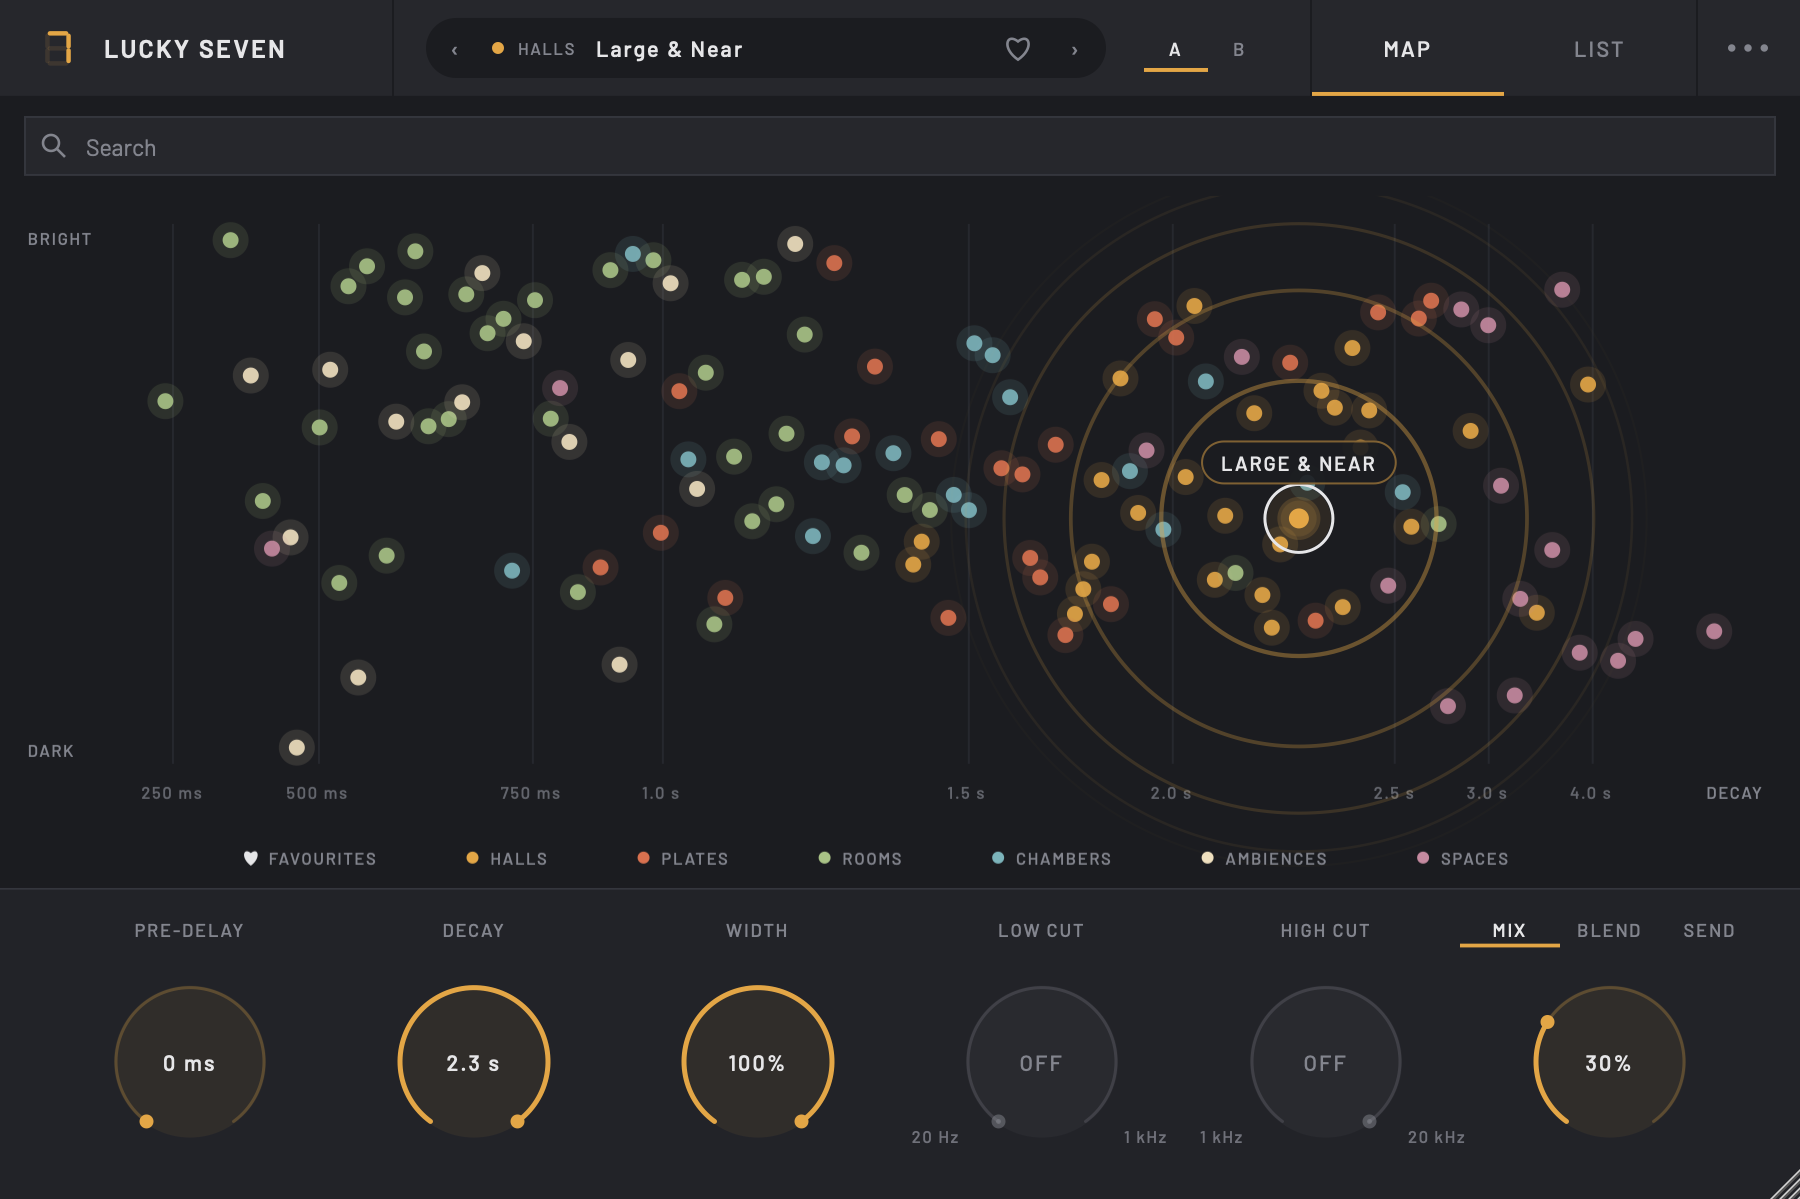
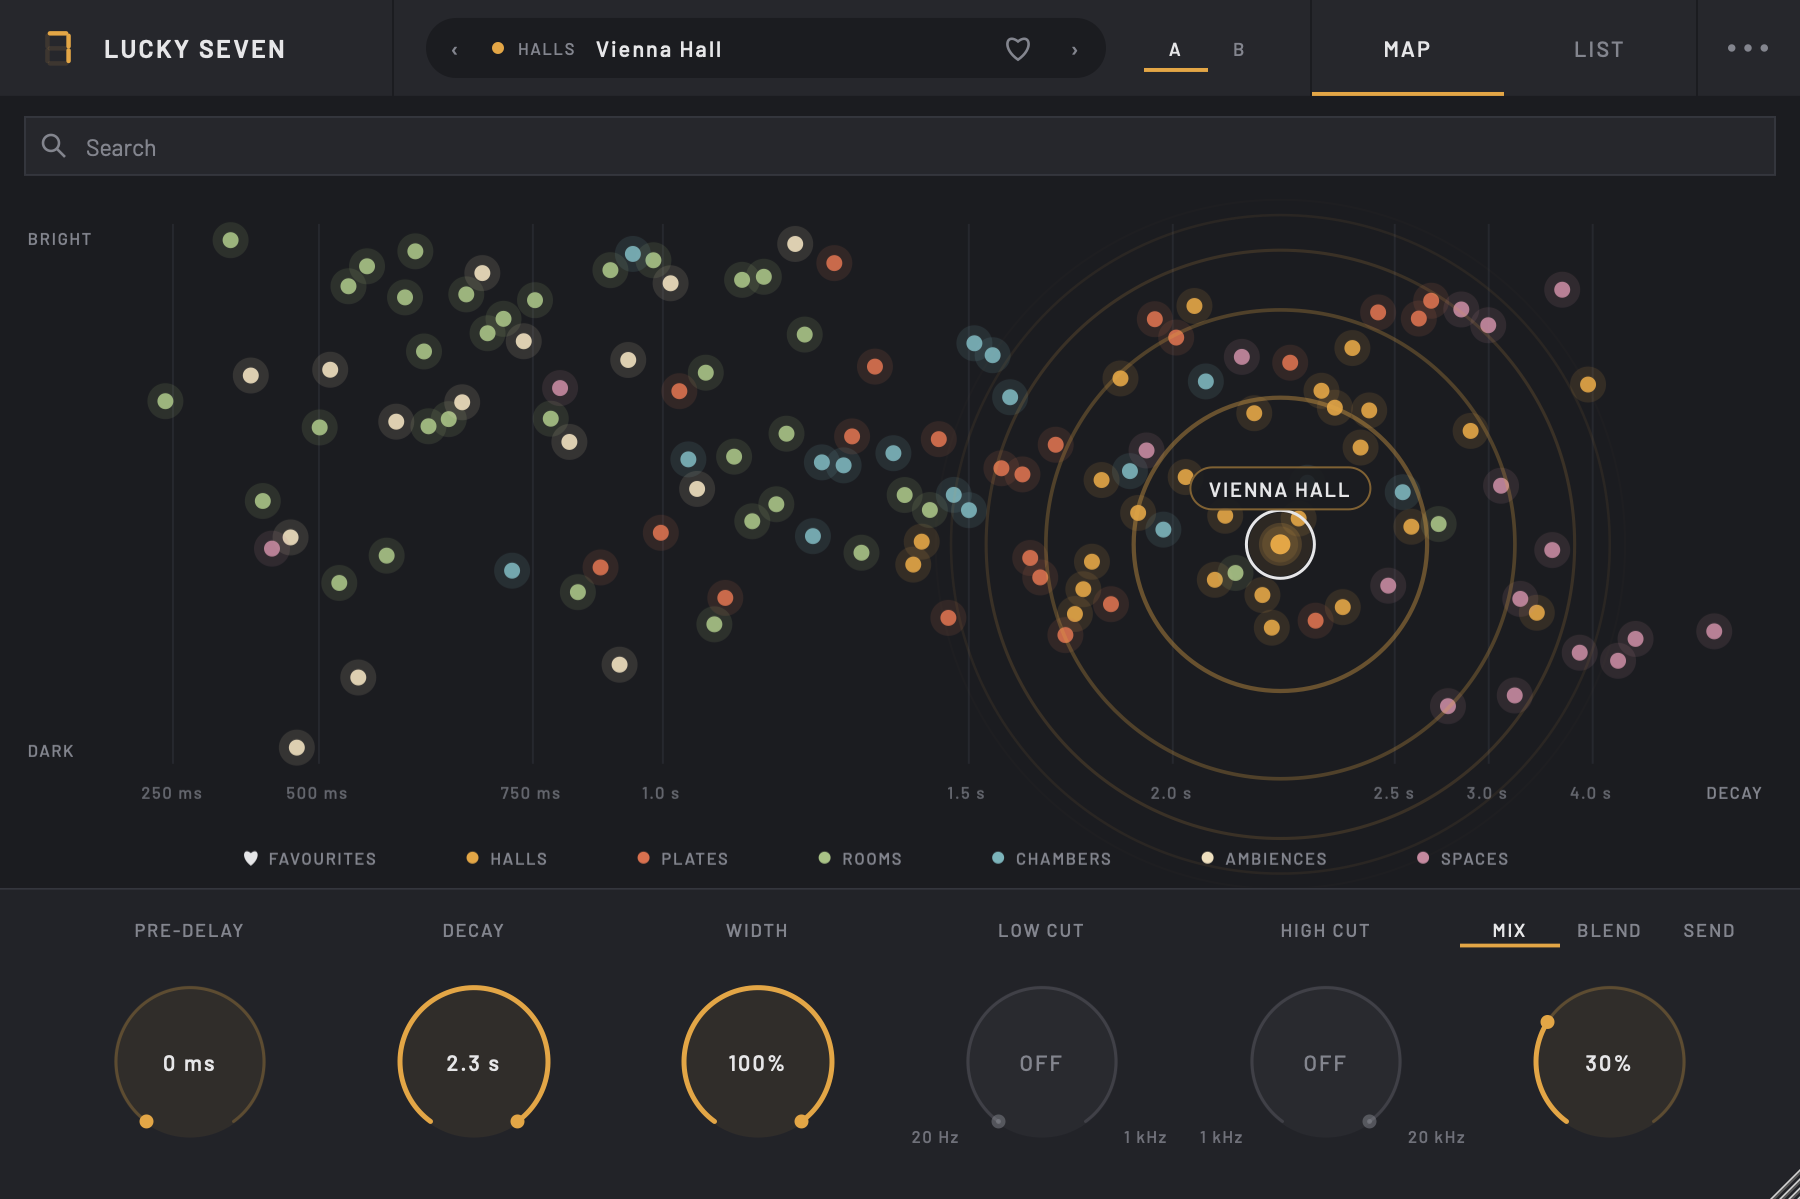
docs(site): feature Vienna Hall in the hero screenshot

diff --git a/docs/index.html b/docs/index.html
@@ -169,7 +169,7 @@
     </div>
 
     <figure class="shot">
-      <img src="assets/map.png" width="1800" height="1200" alt="Lucky Seven's sound map: 134 coloured dots plotted by decay time and brightness with the Large &amp; Near hall selected, and the pre-delay, decay, width, low cut, high cut and mix knobs below.">
+      <img src="assets/map.png" width="1800" height="1200" alt="Lucky Seven's sound map: 134 coloured dots plotted by decay time and brightness with Vienna Hall selected, and the pre-delay, decay, width, low cut, high cut and mix knobs below.">
       <figcaption>The sound map. Each dot sits by how long its tail lasts (left to right) and how bright it sounds (bottom to top).</figcaption>
     </figure>
   </div>
